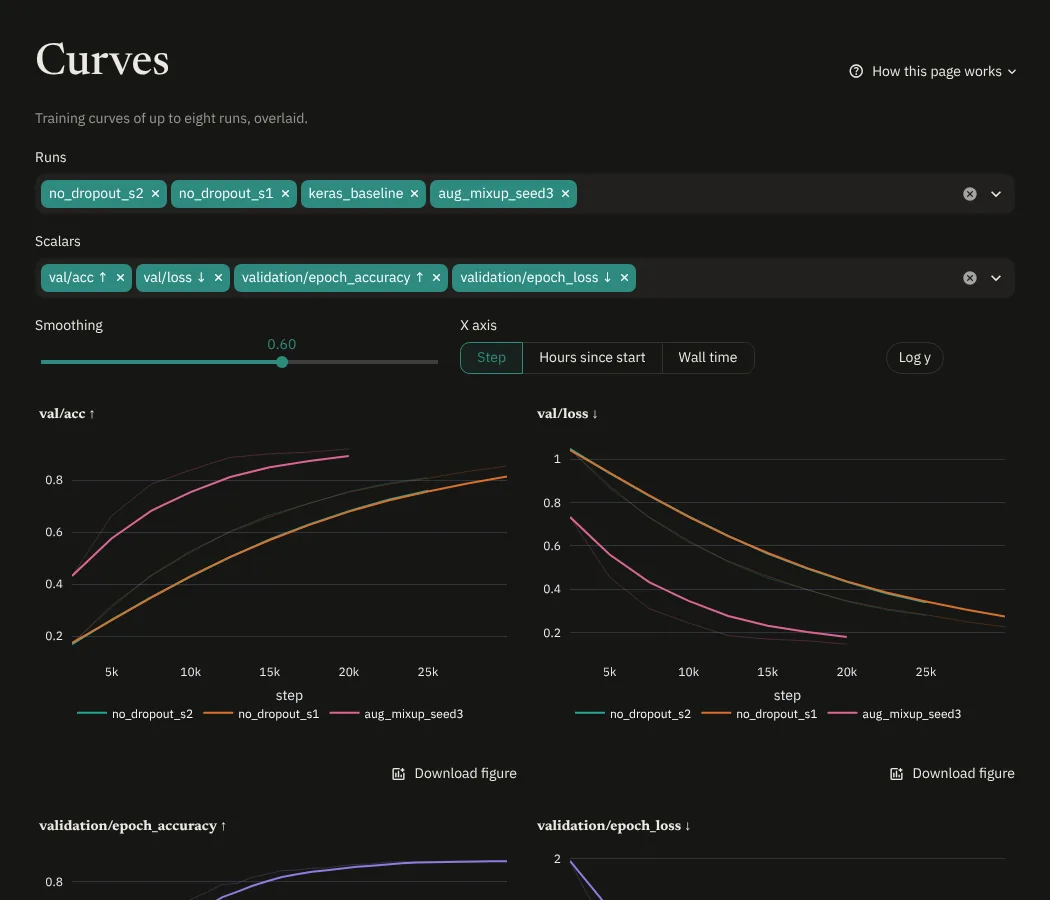
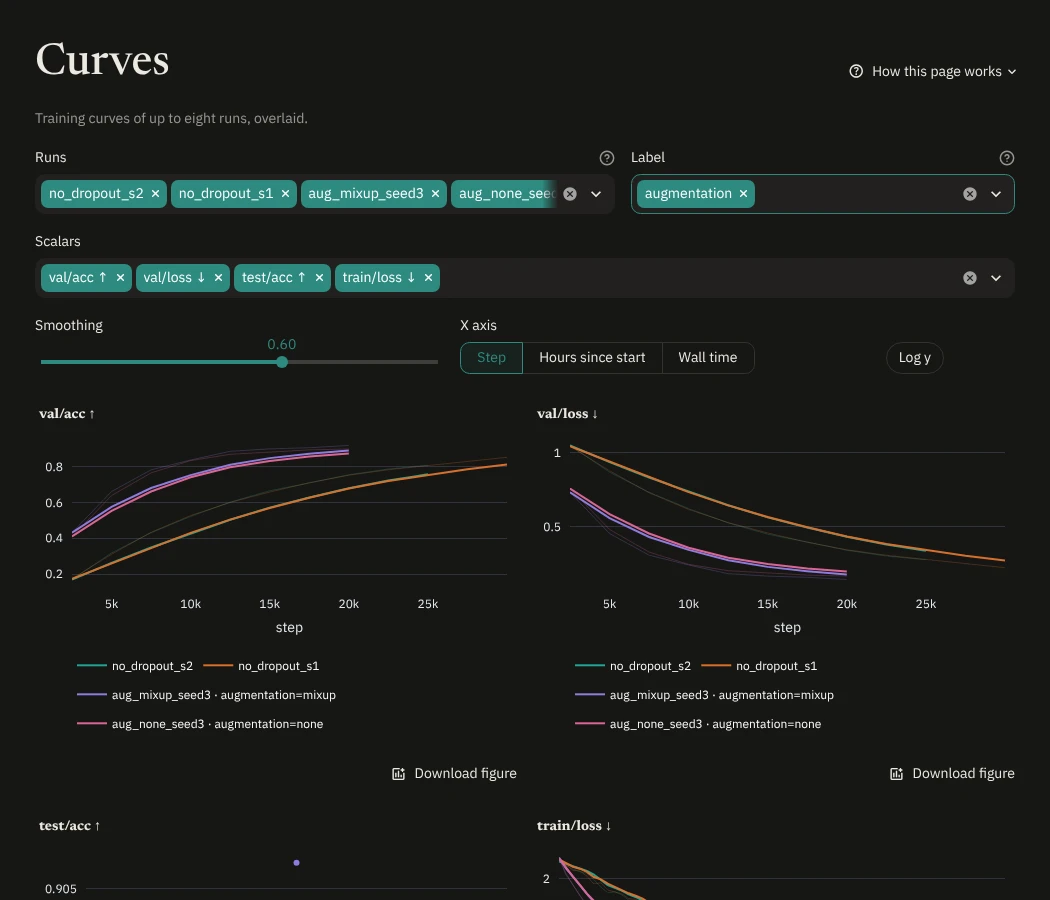
Keep the selection and the view across pages, label runs in Curves
Curves starts with the runs selected in Experiments, and Experiments
shows the view, columns and selected rows it had when you left it. A
Label picker in Curves shows tags, fields or hyperparameters next to the
run names in the legends and hover.

diff --git a/src/tensorboard_book/app.py b/src/tensorboard_book/app.py
@@ -1973,6 +1973,45 @@ def open_default_view(settings: dict) -> None:
         st.session_state.current_view = default
 
 
+def restore_experiments() -> None:
+    """Show Experiments as it was when another view was opened.
+
+    Streamlit forgets the widgets of a view that isn't drawn, so the
+    table is set up again from the copy :func:`view_experiments` keeps.
+    The sidebar filters are left as they are, since other views change
+    them too.
+    """
+    last = st.session_state.get("exp_last")
+
+    if last is None or "info_cols" in st.session_state:
+        return
+    group = st.session_state.filters["group"]
+
+    if last["filters"]["group"] == group:
+        st.session_state[f"metrics_{group}"] = list(last["scalars"])
+        st.session_state[f"hp_{group}"] = list(last["hparams"])
+    st.session_state["info_cols"] = list(last["show"])
+    st.session_state["exp_order"] = list(last["order"])
+    st.session_state["value_mode"] = last["value"]
+    st.session_state["f_expr"] = last["filter"]
+
+
+def keep_selection(ids: list[int]) -> None:
+    """Select again the rows that were selected when Experiments was left.
+
+    Args:
+        ids: The runs in the table, in order.
+    """
+    if "exp_table" in st.session_state:
+        return
+    rows = [
+        ids.index(i) for i in st.session_state.get("selected", []) if i in ids
+    ]
+
+    if rows:
+        st.session_state.exp_table = {"selection": {"rows": rows}}
+
+
 def open_view(name: str, view: dict) -> None:
     """Callback of a view button: apply the view and say so.
 
@@ -2504,6 +2543,7 @@ def view_experiments(
         "tags": data["runs"]["tags"].to_list(),
         "groups": data["runs"]["groups"].to_list(),
     }
+    keep_selection(ids)
     event = show_table(
         styled(table, highlight, formats),
         hide_index=True,
@@ -2532,6 +2572,7 @@ def view_experiments(
     )
     selected = [ids[r] for r in event.selection.rows if r < len(ids)]
     st.session_state.selected = selected
+    st.session_state.exp_last = current_view()
 
     # The toolbar: what's selected, the actions on it
     # (disabled until they apply), and the download on the right.
@@ -2613,7 +2654,7 @@ def selection_actions(
             icon=":material/show_chart:",
             on_click=go_to,
             args=("Curves",),
-            kwargs={"curve_runs": selected[:8]},
+            kwargs={"curve_runs": selected[:8], "curve_seeded": selected},
             help="Plots the training curves of up to eight runs.",
             width="stretch",
         )
@@ -3706,6 +3747,7 @@ def view_curves(data: dict, candidates: pl.DataFrame) -> None:
     tz = viewer_tz()
     newest = candidates.sort("start_time", descending=True, nulls_last=True)
     pool = newest["id"].to_list()
+    keep_curve_runs(pool[:4])
     pool += [
         i
         for i in st.session_state.get("curve_runs", [])
@@ -3716,13 +3758,31 @@ def view_curves(data: dict, candidates: pl.DataFrame) -> None:
         st.info("No runs to plot.")
         return
     widget_state("curve_runs", pool, pool[:4])
-    chosen_runs = st.multiselect(
+    top = st.columns([3, 2])
+    chosen_runs = top[0].multiselect(
         "Runs",
         pool,
         key="curve_runs",
         max_selections=8,
         format_func=lambda i: by_id[i]["name"],
+        help="Starts with the runs selected in Experiments.",
     )
+    st.session_state.curve_runs_kept = list(chosen_runs)
+    label_options = curve_label_options(data, chosen_runs or pool)
+    remembered = st.session_state.get("curve_labels_kept", [])
+    widget_state("curve_labels", label_options, remembered)
+    labels = top[1].multiselect(
+        "Label",
+        label_options,
+        key="curve_labels",
+        max_selections=3,
+        format_func=curve_label_name,
+        placeholder="Run name only",
+        help="Tags, fields or hyperparameters to show next to the run name "
+        "in the legends and when hovering a line.",
+    )
+    st.session_state.curve_labels_kept = list(labels)
+    names = {i: run_label(by_id[i], labels) for i in chosen_runs}
     options = list(tag_counts(metrics, chosen_runs or pool))
     widget_state("curve_metrics", options, default_metrics(options, 4))
     tags = st.multiselect(
@@ -3760,7 +3820,7 @@ def view_curves(data: dict, candidates: pl.DataFrame) -> None:
 
             if series.is_empty():
                 continue
-            name = by_id[rid]["name"]
+            name = names[rid]
             x = curve_x(series, by_id[rid], x_mode, tz)
             add_curve(
                 fig,
@@ -3774,8 +3834,118 @@ def view_curves(data: dict, candidates: pl.DataFrame) -> None:
         style_curves(fig, arrow(tag, directions), x_mode, log_y)
         with columns[k % 2]:
             report_chart(fig, f"curve_{tag}", tag)
-    overlay_section(conn, data, chosen_runs, options, smoothing, x_mode, log_y)
+    overlay_section(
+        conn,
+        data,
+        chosen_runs,
+        names,
+        options,
+        smoothing,
+        x_mode,
+        log_y,
+    )
     conn.close()
+
+
+def keep_curve_runs(default: list[int]) -> None:
+    """Choose the runs Curves starts with when its picker isn't drawn yet.
+
+    Streamlit forgets the picker when another view is shown. Curves then
+    starts with the runs selected in Experiments if that selection changed
+    since Curves last took it, and with the runs it showed last otherwise.
+
+    Args:
+        default: Runs to show when there is neither (the newest ones).
+    """
+    if "curve_runs" in st.session_state:
+        return
+    selected = st.session_state.get("selected", [])
+
+    if selected and selected != st.session_state.get("curve_seeded"):
+        st.session_state.curve_runs = selected[:8]
+        st.session_state.curve_seeded = selected
+    else:
+        st.session_state.curve_runs = list(
+            st.session_state.get("curve_runs_kept") or default
+        )
+
+
+def curve_label_options(data: dict, run_ids: list[int]) -> list[str]:
+    """List what Curves can show next to a run name.
+
+    Args:
+        data: Output of :func:`load_data`, plus `by_id`.
+        run_ids: The runs on the charts.
+
+    Returns:
+        `"tags"`, then `"f:<field>"` for each field and `"h:<name>"` for
+        each hyperparameter of the runs, the ones that differ between
+        them first.
+    """
+    hparams = data["hparams"].filter(pl.col("id").is_in(run_ids))
+    names = [
+        c
+        for c in hparams.columns
+        if c != "id" and hparams[c].null_count() < hparams.height
+    ]
+    varying = an.varying_columns(hparams.select("id", *names))
+    names = varying + [c for c in names if c not in varying]
+    return [
+        "tags",
+        *(f"f:{f.name}" for f in data["fields"]),
+        *(f"h:{c}" for c in names),
+    ]
+
+
+def curve_label_name(option: str) -> str:
+    """Display text of a Label option of Curves.
+
+    Args:
+        option: Output of :func:`curve_label_options`.
+    """
+    if option == "tags":
+        return "Tags"
+
+    if option.startswith("f:"):
+        return show_label(PROP + option[2:])
+    return option[2:]
+
+
+def run_label(run: dict, labels: list[str]) -> str:
+    """Build the name of a run on a chart: its name and the chosen labels.
+
+    Args:
+        run: The run as a dict.
+        labels: Options from :func:`curve_label_options`.
+
+    Returns:
+        Such as `"resnet-0412 · lr=0.001 · baseline"`. Labels the run has
+        no value for are left out.
+    """
+    parts = [run["name"]]
+    for option in labels:
+        if option == "tags":
+            text = ", ".join(run["tags"])
+        elif option.startswith("f:"):
+            name = option[2:]
+            fld = FIELDS_BY_NAME.get(name)
+            value = run["fields"].get(name)
+
+            if fld is None or value is None:
+                continue
+
+            if isinstance(value, list):
+                text = ", ".join(str(v) for v in value)
+            else:
+                text = fld.format(value)
+            text = f"{name}={text}" if text else ""
+        else:
+            text = format_hparam(run["hparams"].get(option[2:]))
+            text = f"{option[2:]}={text}" if text else ""
+
+        if text:
+            parts.append(text)
+    return " · ".join(parts)
 
 
 # Line styles that tell overlaid curves of the same color apart.
@@ -3786,6 +3956,7 @@ def overlay_section(
     conn,
     data: dict,
     run_ids: list[int],
+    names: dict[int, str],
     options: list[str],
     smoothing: float,
     x_mode: str,
@@ -3797,6 +3968,7 @@ def overlay_section(
         conn: Open database connection.
         data: Output of :func:`load_data`, plus `by_id`.
         run_ids: Runs to plot.
+        names: Name of each run on the chart, from :func:`run_label`.
         options: Metrics the runs logged.
         smoothing: EMA weight from the Smoothing slider.
         x_mode: Value of the X axis control.
@@ -3847,7 +4019,7 @@ def overlay_section(
                 color, dash = run_colors_[rid], DASHES[j]
             else:
                 color, dash = metric_colors[tag], DASHES[i % len(DASHES)]
-            label = tag if one_run else f"{run['name']} · {tag}"
+            label = tag if one_run else f"{names[rid]} · {tag}"
             add_curve(
                 fig,
                 curve_x(series, run, x_mode, tz),
@@ -3855,7 +4027,7 @@ def overlay_section(
                 smoothing,
                 color=color,
                 name=label,
-                hover=f"{run['name']}<br>{tag}",
+                hover=f"{names[rid]}<br>{tag}",
                 dash=dash,
             )
     title = " vs ".join(arrow(t, directions) for t in tags)
@@ -3956,7 +4128,15 @@ def style_curves(
         height=height,
         margin={"l": 10, "r": 10, "t": 40, "b": 10},
         hovermode="x unified" if x_mode != "Wall time" else "closest",
-        legend={"orientation": "h", "y": -0.2},
+        # Anchored to the bottom of the figure, so a legend of several
+        # rows (long labels) pushes the chart up instead of covering the
+        # axis title.
+        legend={
+            "orientation": "h",
+            "yref": "container",
+            "y": 0,
+            "yanchor": "bottom",
+        },
         xaxis_title=None if x_mode == "Wall time" else x_mode.lower(),
     )
 
@@ -6086,6 +6266,7 @@ def main() -> None:
 
     if st.session_state.view == "Experiments":
         open_default_view(data["settings"])
+        restore_experiments()
     sidebar(runs, data["groups"], editor, now)
     # The runs that pass the sidebar filters (shown in Experiments).
     visible = apply_filters(runs, data["by_id"], st.session_state.filters)

diff --git a/src/tensorboard_book/helptext.py b/src/tensorboard_book/helptext.py
@@ -81,7 +81,8 @@ the scalars, hyperparameters and Show columns, the column order, the
 **Value** switch and the Filter box. The home button next to a view makes
 it the default: Experiments opens with it. When the table no longer
 matches the open view, **Save changes** updates it. Views are saved with
-your annotations.
+your annotations. When you come back from another page, Experiments shows
+the view, the columns and the selected rows as you left them.
 
 **Actions.** Tick rows and use the buttons under the table. They are
 greyed out until they apply:
@@ -162,7 +163,13 @@ password first if one is set.
 Overlays training curves of up to eight runs.
 
 - **Runs** and **Scalars**: one chart per scalar, one line per run. Each run
-  keeps its color while you add or remove others.
+  keeps its color while you add or remove others. Curves starts with the
+  runs selected in Experiments, and keeps your own choice while that
+  selection stays the same.
+- **Label**: up to three tags, fields or hyperparameters to show next to
+  the run name in the legends and when hovering a line, such as
+  `resnet_lr1e-3 · optimizer.lr=0.001`. Hyperparameters that differ between
+  the plotted runs are listed first.
 - **Smoothing**: the same debiased exponential moving average as
   TensorBoard. The faint line is the raw data.
 - **X axis**: steps, hours since the run started (to compare speed), or wall

diff --git a/tests/test_app.py b/tests/test_app.py
@@ -77,3 +77,30 @@ def test_default_view_opens_with_its_columns(runs, monkeypatch):
             {"experiment_views": {}, "default_experiment_view": ""},
         )
         conn.close()
+
+
+def test_curves_start_with_the_selection_and_show_labels(runs, monkeypatch):
+    monkeypatch.setenv("TBOOK_ROOT", str(runs))
+    monkeypatch.setenv("TBOOK_NO_AUTH", "1")
+    conn = db.connect(db.default_path(runs))
+    ids = [r[0] for r in conn.execute("SELECT id FROM runs ORDER BY id")]
+    conn.close()
+    at = AppTest.from_file(str(APP), default_timeout=120)
+    at.session_state["view"] = "Curves"
+    at.session_state["selected"] = ids[:3]
+    at.session_state["curve_labels_kept"] = ["tags"]
+    at.run()
+    assert not at.exception, [e.value for e in at.exception]
+    assert at.session_state["curve_runs"] == ids[:3]
+    assert at.session_state["curve_labels"] == ["tags"]
+
+    # Back from another view with the same selection: Curves keeps the
+    # runs it showed last.
+    at = AppTest.from_file(str(APP), default_timeout=120)
+    at.session_state["view"] = "Curves"
+    at.session_state["selected"] = ids[:3]
+    at.session_state["curve_seeded"] = ids[:3]
+    at.session_state["curve_runs_kept"] = ids[3:5]
+    at.run()
+    assert not at.exception, [e.value for e in at.exception]
+    assert at.session_state["curve_runs"] == ids[3:5]

diff --git a/docs/views/index.md b/docs/views/index.md
@@ -35,7 +35,8 @@ pills sit in those views, under the filters.
 On/off options, such as **Aggregate seeds** in Compare or **Log y** in
 Curves, are pills: click one to turn it on, and again to turn it off. Compare can use the same runs
 through **Runs shown in Experiments**. Curves and Run details list every
-run that isn't archived.
+run that isn't archived. Curves starts with the runs selected in
+Experiments.
 
 The pages in this section are the same guides the app shows under
 **How this page works**:
